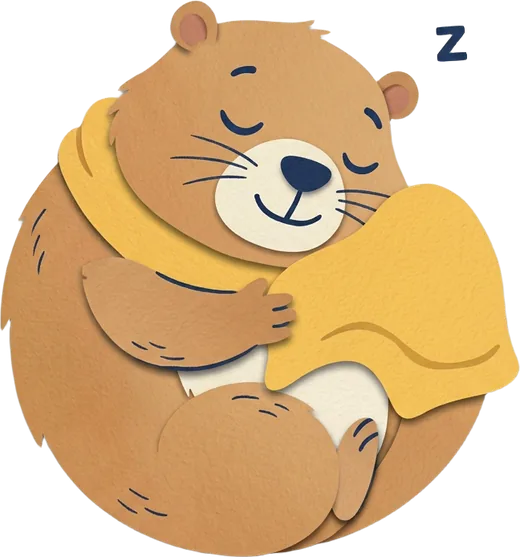
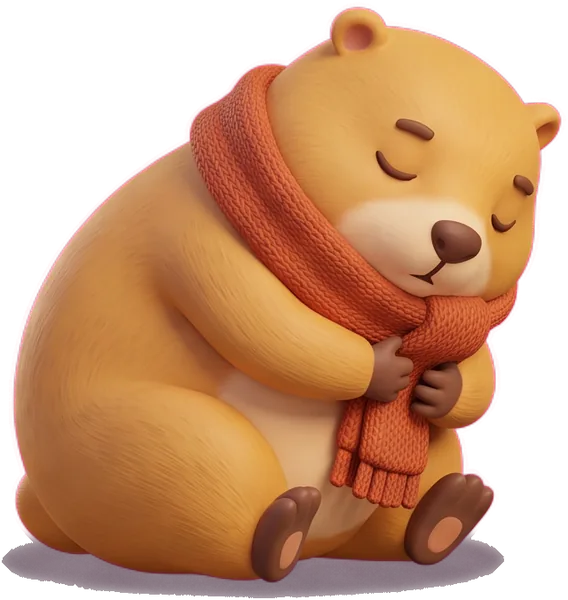
Le site prend la direction artistique des jeux : orange et bleu profond
L'image d'accueil refaite (un après-midi, le canapé orange, la petite planète),
les couleurs du site et de la barre tirées de l'image, le haut de page clair,
et le kit d'images refait (marmottes, petite planète de jour et de nuit, soleil,
lune, nuages), dans la gouache d'album des jeux. Plus de bleu nuit ni de
papier découpé dans les images.

diff --git a/docs/site/site.css b/docs/site/site.css
@@ -8,25 +8,26 @@
 @font-face { font-family: "Lexend"; src: url("../fonts/lexend.woff2") format("woff2"); font-weight: 300 700; font-display: swap; }
 
 :root {
-  --ciel: #cbe6f7;
-  --ciel-fonce: #8fc3e6;
-  --encre: #1d2b4f;
-  --encre-douce: #4c5b7c;
-  --soleil: #ffc83d;
-  --soleil-fonce: #e0a400;
-  --papier: #fbf7ee;
-  --papier-2: #f3ecdc;
-  --corail: #f26b4f;
+  /* Les couleurs de l'image d'accueil (tour 66, décision du 24 novembre) : le canapé orange brûlé, le tapis bleu profond, le mur crème, le gilet moutarde. */
+  --ciel: #f3dcc0;
+  --ciel-fonce: #e0b98f;
+  --encre: #2a3a5c;
+  --encre-douce: #5a6070;
+  --soleil: #e8ae3c;
+  --soleil-fonce: #c08a22;
+  --papier: #f7eedd;
+  --papier-2: #efe0c4;
+  --corail: #c8622f;
   --feuille: #3f8f5a;
   --bois: #c98b4f;
-  --nuit: #16204a;
+  --nuit: #2f4d7a; /* le tapis bleu profond */
 
   --color-primary: var(--soleil);
   --color-surface: var(--papier);
   --color-text: var(--encre);
-  --nuit-2: #0f1738;
+  --nuit-2: #243d63;
   --carte: #fffdf7;
-  --corail-encre: #b8432b; /* corail assez sombre pour du texte sur papier */
+  --corail-encre: #a94f24; /* corail assez sombre pour du texte sur papier */
 
   --f-display: "Baloo 2", "Trebuchet MS", sans-serif;
   --f-edito: "Fraunces", Georgia, serif;
@@ -92,24 +93,24 @@ a { color: inherit; }
 }
 
 /* ---------- 1. Ouverture ---------- */
-.hero { position: relative; background: var(--nuit); color: var(--papier); isolation: isolate; }
+.hero { position: relative; background: var(--papier); color: var(--encre); isolation: isolate; }
 .hero-pic { position: relative; height: 58svh; min-height: 330px; max-height: 560px; overflow: hidden; }
 .hero-img {
-  width: 100%; height: 100%; object-fit: cover; object-position: 74% 45%;
+  width: 100%; height: 100%; object-fit: cover; object-position: 88% 45%; /* téléphone : la planète, l'enfant et la mère */
   animation: hero-in 1.8s cubic-bezier(.2, .7, .2, 1) both;
 }
 .hero-pic::after {
   content: ""; position: absolute; inset: auto 0 0 0; height: 45%;
-  background: linear-gradient(180deg, rgba(22, 32, 74, 0), var(--nuit));
+  background: linear-gradient(180deg, rgba(247, 238, 221, 0), var(--papier));
 }
 .hero-copy { position: relative; z-index: 2; padding: 0 var(--gutter) 56px; margin-top: -86px; }
 
 .arc { --r: 78px; position: relative; width: calc(var(--r) * 2 + 40px); height: calc(var(--r) + 40px); overflow: hidden; margin-left: -14px; }
 .arc-path {
   position: absolute; left: 20px; bottom: 0; width: calc(var(--r) * 2); height: var(--r);
-  border: 2px dashed rgba(255, 200, 61, .55); border-bottom: 0; border-radius: var(--r) var(--r) 0 0;
+  border: 2px dashed rgba(169, 79, 36, .55); border-bottom: 0; border-radius: var(--r) var(--r) 0 0;
 }
-.horizon { position: absolute; left: 0; right: 0; bottom: 0; height: 3px; background: var(--papier); opacity: .7; border-radius: 2px; }
+.horizon { position: absolute; left: 0; right: 0; bottom: 0; height: 3px; background: var(--encre); opacity: .7; border-radius: 2px; }
 .pivot {
   position: absolute; left: calc(20px + var(--r)); bottom: 0; width: 0; height: 0;
   transform: rotate(58deg);
@@ -129,14 +130,15 @@ a { color: inherit; }
 }
 .hero-title span { display: block; animation: rise .9s cubic-bezier(.2, .7, .2, 1) both; }
 .hero-title .l1 { animation-delay: .9s; }
-.hero-title .l2 { animation-delay: 1.15s; font-style: italic; color: var(--soleil); font-weight: 600; }
-.lede { font-size: 1.12rem; font-weight: 300; max-width: 30em; margin-top: 18px; color: #e8e3d6; animation: rise .9s cubic-bezier(.2, .7, .2, 1) 1.5s both; }
+.hero-title .l2 { animation-delay: 1.15s; font-style: italic; color: var(--corail-encre); font-weight: 600; }
+.lede { font-size: 1.12rem; font-weight: 300; max-width: 30em; margin-top: 18px; color: var(--encre-douce); animation: rise .9s cubic-bezier(.2, .7, .2, 1) 1.5s both; }
 .ctas { display: flex; flex-wrap: wrap; align-items: center; gap: 14px 26px; margin-top: 26px; animation: rise .9s cubic-bezier(.2, .7, .2, 1) 1.7s both; }
 .btn-ghost {
   font-family: var(--f-display); font-weight: 700; font-size: 1.08rem; color: var(--papier);
   text-decoration: none; border-bottom: 2px dashed rgba(251, 247, 238, .6); padding: 4px 0;
 }
 .btn-ghost:hover { border-bottom-style: solid; }
+.hero .btn-ghost { color: var(--encre); border-bottom-color: rgba(42, 58, 92, .5); }
 
 @keyframes hero-in { from { opacity: 0; transform: scale(1.06); filter: brightness(.5); } to { opacity: 1; transform: none; filter: none; } }
 @keyframes sun-arc { from { transform: rotate(-4deg); } to { transform: rotate(58deg); } }
@@ -150,8 +152,7 @@ a { color: inherit; }
   .hero-pic::after {
     inset: 0; height: auto;
     background:
-      linear-gradient(90deg, rgba(22, 32, 74, .94) 0%, rgba(22, 32, 74, .82) 30%, rgba(22, 32, 74, .25) 52%, rgba(22, 32, 74, 0) 62%),
-      linear-gradient(0deg, rgba(22, 32, 74, .6), rgba(22, 32, 74, 0) 25%);
+      linear-gradient(90deg, rgba(247, 238, 221, .93) 0%, rgba(247, 238, 221, .73) 30%, rgba(247, 238, 221, 0) 50%);
   }
   .hero-copy { margin: 0; padding: 64px var(--gutter) 90px; width: min(46%, 640px); }
   .arc { --r: 110px; }
@@ -160,8 +161,9 @@ a { color: inherit; }
 }
 @media (min-width: 760px) and (max-width: 1039px) {
   .hero-copy { width: 58%; }
+  .hero-img { object-position: 86% 50%; }
   .hero-pic::after {
-    background: linear-gradient(90deg, rgba(22, 32, 74, .95) 0%, rgba(22, 32, 74, .85) 45%, rgba(22, 32, 74, .2) 70%, rgba(22, 32, 74, 0) 80%);
+    background: linear-gradient(90deg, rgba(247, 238, 221, .95) 0%, rgba(247, 238, 221, .85) 45%, rgba(247, 238, 221, .2) 70%, rgba(247, 238, 221, 0) 80%);
   }
 }
 
@@ -213,7 +215,7 @@ a { color: inherit; }
 /* ---------- 3. Une journée ---------- */
 .journee {
   --bg: var(--ciel);
-  background: linear-gradient(180deg, var(--ciel) 0%, #dcecf2 22%, #fff0c4 52%, #fcd6a6 76%, #f4b292 100%);
+  background: linear-gradient(180deg, var(--papier) 0%, var(--ciel) 45%, var(--papier-2) 100%);
   overflow-x: clip;
 }
 .cloud { position: absolute; pointer-events: none; opacity: .95; }

diff --git a/docs/index.html b/docs/index.html
@@ -26,13 +26,13 @@
   <header class="hero">
     <div class="hero-pic">
       <img class="hero-img" src="img/salon.webp" width="1600" height="893" fetchpriority="high"
-           alt="Le soir dans un salon, un parent et son enfant sur le canapé. Une petite île flotte au-dessus de la tablette."
+           alt="Un après-midi dans un salon, une mère et son enfant sur un canapé orange. Un petit monde rond flotte au-dessus de la tablette, la marmotte y fait coucou."
            data-t-alt="heroAlt">
     </div>
     <div class="hero-copy">
       <div class="arc" aria-hidden="true">
         <span class="arc-path"></span>
-        <span class="pivot"><img class="sun" src="img/soleil.webp" width="420" height="422" alt=""></span>
+        <span class="pivot"><img class="sun" src="img/soleil.webp" width="420" height="417" alt=""></span>
         <span class="horizon"></span>
       </div>
       <h1 class="hero-title">
@@ -71,8 +71,8 @@
 
     <!-- 3. Comment ça marche : une journée -->
     <section class="sec journee" id="comment" aria-labelledby="j-title">
-      <img class="cloud c1" src="img/nuage-2.webp" width="460" height="288" alt="">
-      <img class="cloud c2" src="img/nuage-3.webp" width="307" height="191" alt="">
+      <img class="cloud c1" src="img/nuage-2.webp" width="460" height="243" alt="">
+      <img class="cloud c2" src="img/nuage-3.webp" width="307" height="187" alt="">
       <div class="j-head">
         <p class="kicker" data-t="jKick">Comment ça marche</p>
         <h2 id="j-title" data-t="jTitle">Une journée, le long du soleil</h2>
@@ -89,7 +89,7 @@
               <svg viewBox="0 0 64 40" aria-hidden="true"><circle class="sb" cx="20" cy="30" r="9"/><path class="ray" d="M20 14v-5M8 22l-4-3M32 22l4-3"/><path class="hz" d="M2 32h60"/></svg>
               <span data-t="t1">Matin</span>
             </div>
-            <img class="mascot" src="img/marmotte-carnet.webp" width="469" height="775" alt="" loading="lazy">
+            <img class="mascot" src="img/marmotte-carnet.webp" width="462" height="775" alt="" loading="lazy">
             <h3 data-t="s1Title">Le parent prépare</h3>
             <p data-t="s1Text">Le côté parent s'ouvre avec votre code. Il a quatre onglets&nbsp;:</p>
             <ul class="chips onglets">
@@ -105,7 +105,7 @@
               <svg viewBox="0 0 64 40" aria-hidden="true"><circle class="sb" cx="32" cy="14" r="9"/><path class="ray" d="M18 14h-5M46 14h5M22 4l-3-3M42 4l3-3"/><path class="hz" d="M2 32h60"/></svg>
               <span data-t="t2">Après-midi</span>
             </div>
-            <img class="mascot" src="img/marmotte-salut.webp" width="520" height="756" alt="" loading="lazy">
+            <img class="mascot" src="img/marmotte-salut.webp" width="603" height="775" alt="" loading="lazy">
             <h3 data-t="s2Title">L'enfant joue</h3>
             <p data-t="s2Text">Il joue aux jeux que vous avez choisis. Il peut regarder les autres et vous en demander un&nbsp;: rien ne s'installe sans vous.</p>
             <p data-t="s2Sun">Pendant qu'il joue, le soleil descend dans le ciel. Il sait où il en est d'un coup d'œil.</p>
@@ -115,7 +115,7 @@
               <svg viewBox="0 0 64 40" aria-hidden="true"><circle class="sb late" cx="46" cy="32" r="9"/><path class="ray" d="M46 17v-4M34 24l-4-2M58 24l4-2"/><path class="hz" d="M2 32h60"/></svg>
               <span data-t="t3">Soir</span>
             </div>
-            <img class="mascot" src="img/marmotte-baille.webp" width="461" height="775" alt="" loading="lazy">
+            <img class="mascot" src="img/marmotte-baille.webp" width="490" height="775" alt="" loading="lazy">
             <h3 data-t="s3Title">On s'arrête, sans surprise</h3>
             <p data-t="s3Text">Cinq minutes avant la fin, la marmotte baille. Vous choisissez comment ça finit&nbsp;:</p>
             <dl class="ends">
@@ -192,14 +192,14 @@
 
     <!-- 8. La nuit -->
     <section class="sec nuit" id="nuit" aria-labelledby="n-title">
-      <img class="moon" src="img/lune.webp" width="380" height="415" alt="" loading="lazy">
+      <img class="moon" src="img/lune.webp" width="420" height="415" alt="" loading="lazy">
       <div class="n-grid">
         <div class="n-island">
-          <img class="island" src="img/ile-nuit.webp" width="1100" height="994" loading="lazy"
+          <img class="island" src="img/ile-nuit.webp" width="1100" height="1175" loading="lazy"
                alt="L'île de Ludiworld la nuit, ses fenêtres allumées." data-t-alt="islandAlt">
         </div>
         <div class="n-copy">
-          <img class="dodo" src="img/marmotte-dodo.webp" width="520" height="557" loading="lazy"
+          <img class="dodo" src="img/marmotte-dodo.webp" width="568" height="600" loading="lazy"
                alt="La marmotte dort, enroulée dans son écharpe." data-t-alt="dodoAlt">
           <h2 id="n-title" data-t="nTitle">L'île dort. Elle se réveille quand vous l'ouvrez.</h2>
           <a class="btn btn-sun" href="app/#demarrer" data-app data-t="cta">Ouvrir Ludiworld</a>

diff --git a/docs/style.css b/docs/style.css
@@ -119,8 +119,8 @@ select { width: auto; min-height: 40px; padding: 4px 10px; font-size: 1rem; }
 .a-ciel { position: relative; aspect-ratio: 1.1; order: 2; }
 .a-soleil { position: absolute; width: 30%; left: 4%; top: 2%; animation: lever 2.4s cubic-bezier(.2, .8, .2, 1) both; }
 .a-nuage { position: absolute; width: 34%; right: 2%; top: 12%; animation: glisse 2.4s .3s cubic-bezier(.2, .8, .2, 1) both; }
-.a-ile { position: absolute; width: 92%; left: 4%; bottom: 0; animation: monte 1.8s .2s cubic-bezier(.2, .9, .25, 1) both, flotte 7s 2s ease-in-out infinite; }
-.a-marmotte { position: absolute; width: 20%; left: 54%; bottom: 40%; animation: coucou .7s 1.6s cubic-bezier(.3, 1.6, .5, 1) both; }
+.a-ile { position: absolute; width: 72%; left: 22%; bottom: 0; animation: monte 1.8s .2s cubic-bezier(.2, .9, .25, 1) both, flotte 7s 2s ease-in-out infinite; }
+.a-marmotte { position: absolute; width: 16%; left: 56%; bottom: 56%; animation: coucou .7s 1.6s cubic-bezier(.3, 1.6, .5, 1) both; }
 .a-texte { order: 1; animation: monte 1.2s .1s cubic-bezier(.2, .9, .25, 1) both; }
 .a-texte .langs { margin-bottom: 18px; }
 .a-kicker { margin: 0; font-family: var(--f-titre); font-style: italic; font-size: 1.2rem; color: var(--encre-douce); }
@@ -266,15 +266,15 @@ select { width: auto; min-height: 40px; padding: 4px 10px; font-size: 1rem; }
 .enfant[data-moment="nuit"] .e-temps .ico { color: var(--encre-douce); }
 
 .e-monde { grid-area: monde; position: relative; z-index: 1; display: grid; place-items: end center; min-height: 0; }
-.ile { position: relative; width: min(92%, 560px, 62vh); aspect-ratio: 1100 / 994; animation: monte 1.6s .15s cubic-bezier(.2, .9, .25, 1) both; }
+.ile { position: relative; width: min(86%, 520px, 54vh); aspect-ratio: 1100 / 1175; /* la petite planète (tour 67) */ animation: monte 1.6s .15s cubic-bezier(.2, .9, .25, 1) both; }
 .ile > img { position: absolute; inset: 0; width: 100%; height: 100%; object-fit: contain; }
 .ile-jour { animation: flotte 8s 1.8s ease-in-out infinite; transition: filter 2.5s, opacity 2s; }
 .ile-nuit { opacity: 0; animation: flotte 8s 1.8s ease-in-out infinite; transition: opacity 2s; }
 .enfant[data-moment="soir"] .ile-jour { filter: sepia(.28) saturate(1.15) hue-rotate(-12deg) brightness(.97); }
 .enfant[data-moment="nuit"] .ile-nuit { opacity: 1; }
 .enfant[data-moment="nuit"] .ile-jour { opacity: 0; }
-.ile > .marmotte { inset: auto; width: 11%; height: auto; left: 73%; bottom: 52%; animation: coucou .7s 1.4s cubic-bezier(.3, 1.6, .5, 1) both; }
-.enfant[data-moment="nuit"] .ile > .marmotte { width: 12%; left: 72%; bottom: 47%; }
+.ile > .marmotte { inset: auto; width: 12%; height: auto; left: 60%; bottom: 66%; animation: coucou .7s 1.4s cubic-bezier(.3, 1.6, .5, 1) both; }
+.enfant[data-moment="nuit"] .ile > .marmotte { width: 12%; left: 60%; bottom: 66%; }
 .enfant[data-moment="soir"] .soleil { filter: saturate(1.5) hue-rotate(-28deg); }
 
 .e-jeux {

diff --git a/docs/site/catalogue.css b/docs/site/catalogue.css
@@ -170,7 +170,7 @@ html.cat-verrou { overflow: hidden; }
   margin: 0; padding: 0; border: 0; background: transparent; overflow: hidden;
 }
 .cat-fiche:not([open]) { display: none; }
-.cat-fiche::backdrop { background: rgba(22, 32, 74, .62); }
+.cat-fiche::backdrop { background: rgba(42, 58, 92, .62); }
 .cat-fiche[open]::backdrop { animation: cat-fond .3s ease both; }
 
 .cat-panneau {
@@ -349,13 +349,13 @@ html.cat-verrou { overflow: hidden; }
 .cat-loupe-legende small { display: block; font-size: .85rem; color: #c9d2ee; }
 .cat-loupe-fermer {
   display: inline-flex; align-items: center; gap: 8px; min-height: 48px; padding: 6px 18px 4px 14px; cursor: pointer;
-  font: 800 1.05rem/1 "Baloo 2", "Trebuchet MS", sans-serif; color: #1d2b4f; background: var(--cat-soleil, #ffc83d); border: 0;
+  font: 800 1.05rem/1 "Baloo 2", "Trebuchet MS", sans-serif; color: var(--cat-encre, #2a3a5c); background: var(--cat-soleil, #e8ae3c); border: 0;
   border-radius: 14px 20px 12px 18px; box-shadow: 3px 4px 0 var(--cat-soleil-fonce, #e0a400);
 }
 .cat-loupe-fermer .cat-svg { width: 20px; height: 20px; }
 .cat-loupe-nav {
   position: absolute; top: 50%; transform: translateY(-50%); width: 52px; height: 52px; display: grid; place-items: center; cursor: pointer;
-  color: #1d2b4f; background: rgba(255, 253, 247, .92); border: 0; border-radius: 50% 46% 52% 48%;
+  color: var(--cat-encre, #2a3a5c); background: rgba(255, 253, 247, .92); border: 0; border-radius: 50% 46% 52% 48%;
 }
 .cat-loupe-avant { left: 10px; }
 .cat-loupe-apres { right: 10px; }
@@ -366,7 +366,7 @@ html.cat-verrou { overflow: hidden; }
   .cat-panneau {
     left: auto; width: min(620px, 92vw); padding: 0 34px 40px;
     border-top: 0; border-left: 8px solid var(--cat-soleil);
-    border-radius: 26px 0 0 18px; box-shadow: -10px 0 0 rgba(22, 32, 74, .18);
+    border-radius: 26px 0 0 18px; box-shadow: -10px 0 0 rgba(42, 58, 92, .18);
   }
   .cat-fiche[open] .cat-panneau { animation-name: cat-glisse; }
   .cat-fermer { margin-right: -16px; margin-top: 12px; }

diff --git a/docs/site/barre.css b/docs/site/barre.css
@@ -1,11 +1,11 @@
 /* Ludiworld : la barre du site (pages du site et haut du côté parent), puis la ligne des promesses. Les polices sont chargées par la page. */
 .lw-barre, .lw-promesses {
-  --lw-nuit: #16204a;
+  --lw-nuit: #c8622f; /* le canapé orange brûlé de l'image d'accueil (tour 66) */
   --lw-papier: #fbf7ee;
-  --lw-soleil: #ffc83d;
-  --lw-soleil-fonce: #e0a400;
-  --lw-encre: #1d2b4f;
-  --lw-doux: #c9d2ee;
+  --lw-soleil: #e8ae3c;
+  --lw-soleil-fonce: #c08a22;
+  --lw-encre: #2a3a5c;
+  --lw-doux: #fbe6d2;
 }
 .lw-barre {
   position: relative; z-index: 20;
@@ -20,7 +20,7 @@
   flex: none; font-family: "Baloo 2", "Trebuchet MS", sans-serif; font-weight: 800; font-size: 1.55rem; line-height: 1;
   color: var(--lw-papier); text-decoration: none; letter-spacing: -.01em;
 }
-.lw-marque span { color: var(--lw-soleil); }
+.lw-marque span { color: #ffe2a0; }
 
 .lw-onglets { display: flex; gap: 4px; min-width: 0; }
 .lw-onglet {
@@ -125,7 +125,7 @@
   position: relative; z-index: 19;
   display: flex; flex-wrap: wrap; justify-content: center; align-items: baseline; gap: 2px 10px;
   padding: 5px clamp(16px, 4.5vw, 64px) 6px;
-  background: #0f1738; color: var(--lw-doux); text-decoration: none; text-align: center;
+  background: #a94f24; color: var(--lw-doux); text-decoration: none; text-align: center;
   font: 500 .84rem/1.3 "Lexend", "Segoe UI", sans-serif; letter-spacing: .01em;
   border-top: 1px solid rgba(255, 255, 255, .08);
 }

diff --git a/docs/creer/index.html b/docs/creer/index.html
@@ -18,7 +18,7 @@
   <div id="lw-barre"></div>
 
   <header class="page-tete tete-creer">
-    <img class="tete-mascotte" src="../img/marmotte-carnet.webp" width="469" height="775" alt="">
+    <img class="tete-mascotte" src="../img/marmotte-carnet.webp" width="462" height="775" alt="">
     <p class="kicker" data-t="kick">Créer un jeu</p>
     <h1 data-t="h1">Votre enfant a une passion. Faites-en un jeu.</h1>
     <p class="lede" data-t="lede">Pas besoin de savoir coder&nbsp;: une IA écrit le code avec vous. Comptez une soirée pour un premier jeu, quelques soirées pour qu'il soit bien. Voici le chemin, de l'idée jusqu'à Ludiworld.</p>

diff --git a/docs/site/accueil-en.js b/docs/site/accueil-en.js
@@ -2,7 +2,7 @@
 LudiSite.en({
   metaDesc: 'Small games made by parents, with no ads, nothing to buy and no traps. You choose, your child plays, the sun says when to stop.',
   skip: 'Skip to content',
-  heroAlt: 'Evening in a living room, a parent and child on the sofa. A small island floats above the tablet.',
+  heroAlt: 'An afternoon in a living room, a mother and her child on an orange sofa. A small round world floats above the tablet, the marmot waves from it.',
   h1a: 'The sun says',
   h1b: 'when to stop.',
   lede: 'Small games made by parents. You choose, your child plays, the sun sets the pace.',
